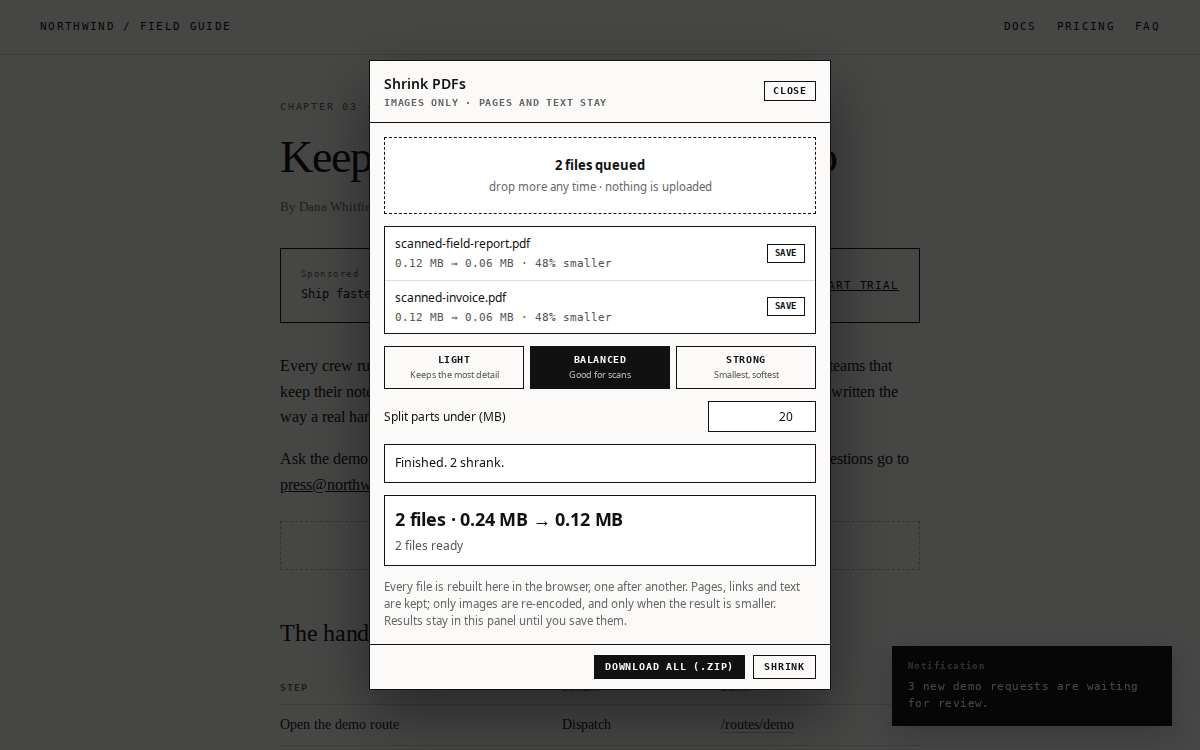
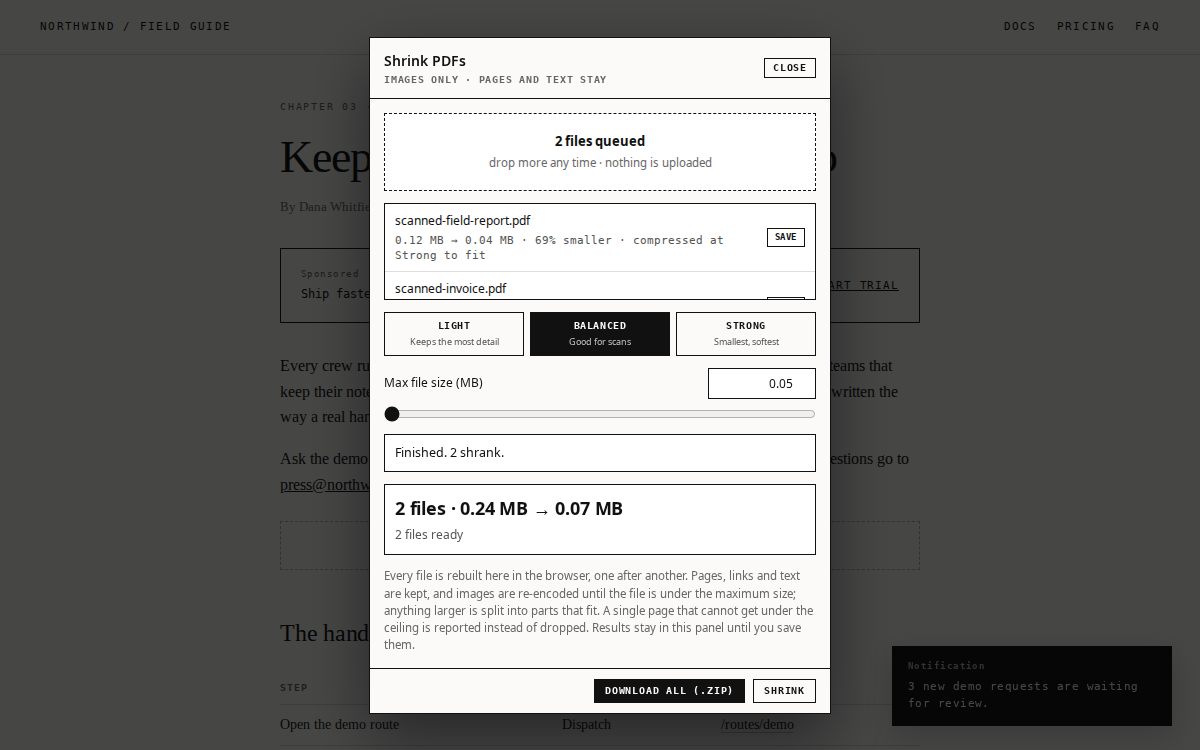
Make the size ceiling a maximum and compress until parts fit
The splitting field is now a max-file-size control with a slider and a number
input, defaulting to 20 MB, and a part that does not fit is rebuilt at the next
stronger preset before anything is reported as impossible. The row names the
preset that was needed, so a file that only fits at Strong says so.

🤖 Generated with Codebuff

Changed region(s): [[0.3083, 0.0307, 0.7092, 0.9507], [0.6475, 0.276, 0.6783, 0.368], [0.5242, 0.3067, 0.5858, 0.3373]]

diff --git a/bookmarklets/files/pdf-shrink.js b/bookmarklets/files/pdf-shrink.js
@@ -574,9 +574,27 @@
     return { ...outcome, bytes: better ? out : bytes, after: better ? out.length : bytes.length, unchanged: !better };
   }
 
+  const LADDER = ["light", "balanced", "strong"];
+
+  // From the chosen strength upwards. A ceiling is a promise, so a part that
+  // does not fit is compressed harder before it is called impossible.
+  function ladderFrom(name) {
+    const index = LADDER.indexOf(name);
+    return LADDER.slice(index < 0 ? 1 : index);
+  }
+
   async function splitPdf(bytes, targetBytes, presetName) {
-    const outcome = await optimizePdf(bytes, presetName);
-    return { ...outcome, parts: splitParts(outcome.pdf, targetBytes) };
+    const ladder = ladderFrom(presetName);
+    let outcome = null;
+    let parts = [];
+    let used = ladder[0];
+    for (const name of ladder) {
+      outcome = await optimizePdf(bytes, name);
+      parts = splitParts(outcome.pdf, targetBytes);
+      used = name;
+      if (parts.every((part) => part.bytes.length <= targetBytes)) break;
+    }
+    return { ...outcome, parts, preset: used, escalated: used !== ladder[0] };
   }
 
   /* Packing the parts ------------------------------------------------------ */
@@ -694,6 +712,8 @@
     .row span { font-size: 12px; }
     .row input { width: 92px; padding: 6px 7px; border: 1px solid #111; background: #fff; color: #111;
       font: 12px system-ui, sans-serif; text-align: right; }
+    .max { display: flex; flex-direction: column; gap: 7px; }
+    .range { width: 100%; margin: 0; accent-color: #111; }
     .status { margin: 0; padding: 9px 10px; border: 1px solid #111; background: #fff; font-size: 12.5px;
       overflow-wrap: anywhere; }
     .status.error { border-style: dashed; }
@@ -796,17 +816,25 @@
       presets.append(button);
     }
 
-    const splitRow = make("label", { class: "row" });
-    const splitInput = make("input", { type: "number", min: "0.2", step: "0.5", placeholder: "off", inputmode: "decimal", value: "20" });
-    splitRow.append(make("span", {}, "Split parts under (MB)"), splitInput);
+    const maxRow = make("label", { class: "row" });
+    const maxInput = make("input", { type: "number", min: "0.5", max: "500", step: "0.5", inputmode: "decimal", value: "20", "data-max": "" });
+    maxRow.append(make("span", {}, "Max file size (MB)"), maxInput);
+    const maxRange = make("input", { class: "range", type: "range", min: "0.05", max: "60", step: "0.05", value: "20", "aria-label": "Maximum file size in megabytes", "data-max-range": "" });
+    const maxBlock = make("div", { class: "max" });
+    maxBlock.append(maxRow, maxRange);
+    maxRange.addEventListener("input", () => { maxInput.value = maxRange.value; });
+    maxInput.addEventListener("input", () => {
+      const value = Number.parseFloat(maxInput.value);
+      if (Number.isFinite(value) && value > 0) maxRange.value = String(Math.min(60, Math.max(0.05, value)));
+    });
 
     const status = make("p", { class: "status" }, "Ready. Pick one or more PDFs, then press Shrink.");
     const result = make("div", { class: "result" });
     result.hidden = true;
-    const hint = make("p", { class: "hint" }, "Every file is rebuilt here in the browser, one after another. Pages, links and text are kept; only images are re-encoded, and only when the result is smaller. Results stay in this panel until you save them.");
+    const hint = make("p", { class: "hint" }, "Every file is rebuilt here in the browser, one after another. Pages, links and text are kept, and images are re-encoded until the file is under the maximum size; anything larger is split into parts that fit. A single page that cannot get under the ceiling is reported instead of dropped. Results stay in this panel until you save them.");
 
     const queue = make("ul", { class: "queue", "aria-label": "Files to shrink", "data-queue": "" });
-    body.append(drop, queue, presets, splitRow, status, result, hint);
+    body.append(drop, queue, presets, maxBlock, status, result, hint);
 
     const foot = make("footer", { class: "foot" });
     const download = make("button", { class: "primary", type: "button", "data-download": "" }, "Download");
@@ -948,7 +976,7 @@
         const bytes = new Uint8Array(await item.file.arrayBuffer());
         setStatus(`Recompressing ${name}…`);
         await new Promise((resolve) => setTimeout(resolve, 30));
-        const targetMb = Number.parseFloat(splitInput.value);
+        const targetMb = Number.parseFloat(maxInput.value);
         const target = Number.isFinite(targetMb) && targetMb > 0 ? targetMb * 1024 * 1024 : 0;
         const outcome = target ? await splitPdf(bytes, target, state.preset) : await shrinkPdf(bytes, state.preset);
         const parts = outcome.parts || null;
@@ -962,13 +990,15 @@
         }
 
         const base = baseName(name);
+        const harder = outcome.escalated ? ` · compressed at ${presetFor(outcome.preset).label} to fit` : "";
         if (parts && parts.length > 1) {
           item.result = parts.map((part, index) => ({ name: `${base}-part${index + 1}.pdf`, bytes: part.bytes }));
-          item.meta.textContent = `${parts.length} parts · ${mb(total)}`;
-          if (parts.some((part) => part.tooBig)) item.meta.textContent += " · a page is still over the limit";
+          item.meta.textContent = `${parts.length} parts · ${mb(total)}${harder}`;
+          if (parts.some((part) => part.tooBig)) item.meta.textContent += ` · a single page will not fit under ${mb(target)}`;
         } else {
           item.result = [{ name: `${base}-small.pdf`, bytes: parts ? parts[0].bytes : outcome.bytes }];
-          item.meta.textContent = `${mb(outcome.before)} → ${mb(total)} · ${Math.round((saved / outcome.before) * 100)}% smaller`;
+          item.meta.textContent = `${mb(outcome.before)} → ${mb(total)} · ${Math.round((saved / outcome.before) * 100)}% smaller${harder}`;
+          if (parts && parts[0] && parts[0].tooBig) item.meta.textContent += ` · still over ${mb(target)}`;
         }
         item.status = "done";
         item.save.hidden = false;
@@ -1024,7 +1054,7 @@
   if (globalThis.__BL_TEST__) {
     globalThis.__BL_TEST__.pdfShrink = {
       isPdf, scanObjects, serializePdf, imageKind, replaceImageDict, presetFor, countPages, dictEnd,
-      pageTree, subsetFor, splitParts, crc32, zipStore, shrinkPdf, splitPdf, readPdf, uniqueName,
+      pageTree, subsetFor, splitParts, crc32, zipStore, shrinkPdf, splitPdf, readPdf, uniqueName, ladderFrom,
     };
   } else if (document?.body) {
     open();

diff --git a/AGENTS.md b/AGENTS.md
@@ -98,7 +98,7 @@ Metadata fields, all required:
 - **Stars are local.** A star is a personal preference in `localStorage` (`bl:stars`), not a shared rating. Starred tools sort to the top of the grid; there is no GitHub reaction, no count file, no account and no server. A star must not change the export picks or the featured tool.
 - **Browser tools own their state locally.** Environment origins live in `bl:envs`, the harvested form in `bl:form`, the webhook endpoint in `bl:webhook`, the chosen theme in `bl:theme` and stars in `bl:stars`. Nothing is uploaded. The PII masker must keep its **Restore page** action honest: store the original text and inline filters before changing them, and never apply a new pass on top of an existing one. The webhook tool must try the direct POST and fall back to the clipboard when CSP or CORS blocks it. The form pair skips password and file fields on both sides, and the stamper must dispatch native `input` and `change` events rather than assigning `.value` alone.
 - **Media downloads save what the page already loads.** The four tools in `bookmarklets/files/media-*.js` are generated from `bookmarklets/src/parts/media-grab.js`; never edit a generated file. Images come from `img`/`picture` (including `srcset` and lazy attributes) and social preview tags, video and audio from the elements and their `source` fallbacks, and linked files from anchors with `download` or a file extension. Every run scans the live document, so a player that swaps sources is read as it is at that moment. **Save all to folder** uses `showDirectoryPicker` and probes existing names so it numbers rather than overwrites; **Download each** is the fallback where the picker is missing. A cross-origin file without CORS headers cannot be read: mark it blocked and give it an **Open** link instead of pretending it saved. `.m3u8`/`.mpd` playlists and files over 600 MB are listed but skipped, and nothing is uploaded, decrypted or re-encoded. The panel must not change the page outside its own host.
-- **Shrink PDF rebuilds the document instead of harvesting its images.** `bookmarklets/files/pdf-shrink.js` scans every `N G obj`, keeps the last definition of each number (which is what drops the leftovers of an incremental save), lifts PDF 1.5 object streams to the top level so the output needs no cross-reference stream, replaces only eligible image streams, and writes a fresh xref. Never rebuild a PDF out of just the image objects: that throws away text, vectors, page order and annotations, which is what the sketch this replaced did. Skip masks, stencils, CCITT/JBIG2, CMYK and predictors rather than guess, keep the output only when it is smaller, and refuse encrypted files. Splitting walks the page tree (never object order), rewrites only `/Kids` and `/Count` on the Pages node so inherited keys survive, and packs parts into one stored ZIP because browsers block the second download a page starts. Every written stream must carry a `/Length` that matches the bytes actually written; producers get that wrong and a reader then truncates content. A batch is rebuilt one file at a time, each row reporting its own result, and its outputs travel in one ZIP with a per-row Save for the same download reason; same-named files must be disambiguated before they enter an archive. Keep `@testing true` while any fidelity question is open — Sizes are reported in MB (two decimals below 10 MB) because that is how upload limits are quoted, and the split ceiling defaults to 20 MB. a smaller file that renders differently is worse than a big one.
+- **Shrink PDF rebuilds the document instead of harvesting its images.** `bookmarklets/files/pdf-shrink.js` scans every `N G obj`, keeps the last definition of each number (which is what drops the leftovers of an incremental save), lifts PDF 1.5 object streams to the top level so the output needs no cross-reference stream, replaces only eligible image streams, and writes a fresh xref. Never rebuild a PDF out of just the image objects: that throws away text, vectors, page order and annotations, which is what the sketch this replaced did. Skip masks, stencils, CCITT/JBIG2, CMYK and predictors rather than guess, keep the output only when it is smaller, and refuse encrypted files. Splitting walks the page tree (never object order), rewrites only `/Kids` and `/Count` on the Pages node so inherited keys survive, and packs parts into one stored ZIP because browsers block the second download a page starts. The ceiling is a maximum file size, so a part that does not fit is retried at the next stronger preset (light to balanced to strong) before it may be reported as impossible. Every written stream must carry a `/Length` that matches the bytes actually written; producers get that wrong and a reader then truncates content. A batch is rebuilt one file at a time, each row reporting its own result, and its outputs travel in one ZIP with a per-row Save for the same download reason; same-named files must be disambiguated before they enter an archive. Keep `@testing true` while any fidelity question is open — Sizes are reported in MB (two decimals below 10 MB) because that is how upload limits are quoted, and the split ceiling defaults to 20 MB. a smaller file that renders differently is worse than a big one.
 - **Chat export ships its own converter.** `bookmarklets/files/chat-to-markdown.js` must never load Turndown or anything else from a CDN: ChatGPT, Claude and Gemini run under CSP rules that block it, and the library's own rule is that a self-contained tool contains every line it runs. Message-level extraction (platform selectors, then `[data-message-author-role]` and friends) is what keeps `## You` / `## Assistant` in the file; the container and picker paths are fallbacks, not the main road. Never assign an HTML string to `innerHTML` anywhere in it: Google AI Studio enforces Trusted Types and blocks it, and `tests/chat-to-markdown.test.mjs` fails the build if an HTML sink returns. The file is a download, never the clipboard. `@testing true` (a status, not a `@traits` entry) puts an **In testing** badge on the card and is validated by build and verify; drop it once the tool has been run against the real service.
 - **Send PDF to DocuSign is BYOK, and the bytes travel, not a URL.** `bookmarklets/files/send-to-docusign.js` uploads the PDF as `documents[0].documentBase64`; a `uri` would ask DocuSign to fetch a link that is usually a `blob:` or behind a session, so it cannot work. The handoff is `POST /v2.1/accounts/{id}/envelopes/{envelopeId}/views/sender` — that endpoint returns the real sender URL and only accepts envelopes in `created` state. Never bake credentials into the file: settings live in `localStorage` under `bl:docusign`, and the token is saved only when its box is ticked, per origin. `envelopeBody` omits `recipients` when the signer email is blank because DocuSign rejects an empty address. Pure helpers are exported through `__BL_TEST__` for `tests/send-to-docusign.test.mjs`, and `scripts/fixtures/sample.pdf` exists so a capture can show a found PDF.
 - **Preview downloads stays in the page.** `bookmarklets/view/preview-downloads.js` listens for clicks in the capture phase and takes over only links whose extension it can show (image, video, audio, PDF, text, Office); a ZIP or an unknown extension keeps its normal download. It `fetch`es the file once — that read is what enables the text preview, the size and the save — and falls back to the link URL, with a note, when CORS refuses. Mounting tries a shadow-root overlay first, then Document Picture-in-Picture, then a pop-up; Esc, the backdrop and Close all revoke the object URL. The pure helpers (`extensionOf`, `kindOf`, `isFileLink`, `nameFor`, `sizeLabel`) are exported through `__BL_TEST__` for `tests/preview-downloads.test.mjs`, so keep them free of DOM access.

diff --git a/README.md b/README.md
@@ -137,11 +137,11 @@ The images are the weight in a scan. Each JPEG is decoded, drawn at a smaller si
 
 What it deliberately leaves alone: transparency masks and soft masks, `ImageMask` stencils, CCITT and JBIG2 fax images, CMYK and indexed colour, and predictors. Shrinking one half of a mask pair would leave the other misaligned, so those are skipped rather than guessed at. Encrypted PDFs are refused, because their streams cannot be read without the key.
 
-Set **Split parts under (MB)** (it starts at 20) and the same pass packs the pages, in page-tree order, into parts under that ceiling. Each part is rebuilt from only the objects its pages can reach, so a part does not carry the images of the pages it left out, and all parts arrive in one ZIP — a browser blocks the second download a page starts, so separate files would silently stop after the first. A single page that is still too heavy is reported as over the limit rather than quietly dropped.
+**Max file size (MB)** is set with a slider or by typing a number and defaults to 20. The same pass packs the pages, in page-tree order, into parts under that ceiling, and a part that still does not fit is recompressed at the next stronger setting before it is reported. Each part is rebuilt from only the objects its pages can reach, so a part does not carry the images of the pages it left out, and all parts arrive in one ZIP — a browser blocks the second download a page starts, so separate files would silently stop after the first. A single page that is still too heavy is reported as over the limit rather than quietly dropped.
 
 It has now been through 30 files: 15 public PDFs and 15 generated 2400×3200 scans. The scans went 0.18 MB → 0.06 MB, 1.11 MB → 0.15 MB (87% smaller), 5.44 MB → 1.24 MB and 6.56 MB → 1.39 MB (79%). `pdfinfo` page counts match, image object counts are unchanged, and page content streams hash identical before and after. Splitting a 3-page 6.56 MB scan at a 0.3 MB ceiling produced a 0.17 MB two-page part plus a 1.24 MB single page that the panel flags as too heavy to fit.
 
-A `pdftotext` mismatch on two of those vector PDFs turned out to be a real bug, not a reader quirk: a stream whose `/Length` is an indirect reference was being trimmed at its final line break, which shortened and corrupted embedded fonts. Lengths are resolved from the length object now, and the rebuilt pages render to byte-identical PNGs with matching text. The card keeps its **In testing** badge because the corpus is still small, and because a page that cannot fit a split target is reported rather than retried at a stronger preset. A text-only PDF has nothing to recompress, so the panel says there is no gain rather than handing back a file that grew.
+A `pdftotext` mismatch on two of those vector PDFs turned out to be a real bug, not a reader quirk: a stream whose `/Length` is an indirect reference was being trimmed at its final line break, which shortened and corrupted embedded fonts. Lengths are resolved from the length object now, and the rebuilt pages render to byte-identical PNGs with matching text. The card keeps its **In testing** badge because the corpus is still small, and because a single page that cannot be compressed under the ceiling is reported instead of quietly dropped. A text-only PDF has nothing to recompress, so the panel says there is no gain rather than handing back a file that grew.
 
 ## Export a chat to Markdown
 

diff --git a/HISTORY.md b/HISTORY.md
@@ -2,6 +2,20 @@
 
 What has been done, in order. Newest entries first.
 
+## 2026-11-03 — A maximum size, not just a splitting point
+
+**Changed**
+
+- The splitting field became **Max file size (MB)**: a range slider paired with a number input, both starting at 20, kept in sync in either direction. The number accepts 0.5–500 MB for scans that need more room; the slider covers the 1–60 MB range people actually hit.
+- The ceiling is now a promise rather than a suggestion. If any part still exceeds it, the whole document is recompressed at the next stronger preset and repacked, up to Strong, and only then does a page get reported as impossible. The row says which preset it had to use (`compressed at Strong to fit`).
+- A single-page file that goes over the ceiling is reported as still over it, because there is nothing to split.
+- The hint now says what the tool will do: compress until under the maximum, split what is left, and report a page that cannot fit.
+
+**Verified**
+
+- `npm test`: 111 pass, including the escalation ladder (`light` → `balanced` → `strong`, and no escalation past `strong`).
+- The capture checks the slider defaults to 20, types 0.05 MB into the number field, confirms the slider follows, then runs two PDFs through the picker and requires both rows to be saveable, both to report `compressed at Strong to fit`, and one archive to be offered.
+
 ## 2026-11-03 — Sizes read in MB, and splitting starts at 20 MB
 
 **Changed**

diff --git a/TODO.md b/TODO.md
@@ -65,7 +65,8 @@
 - [x] The `pdftotext` mismatch was a real bug: a stream with an indirect `/Length` was trimmed at its last line break, corrupting embedded fonts (poppler said "Bad dynamic code table"). Lengths are resolved from the length object now; rendered pages hash identically and text matches exactly.
 - [ ] Widen the corpus past 30 files, especially JBIG2/CCITT scans, PDFs over 40 MB, and Word/Chrome exports with object streams.
 - [ ] Text-only PDFs cannot get smaller by recompression. The rebuild can still shrink them by dropping superseded objects, but that is the path under investigation above.
-- [ ] A page that stays over the split target is reported, not retried at a stronger preset for that page alone.
+- [x] **Max file size (MB)** slider plus number input, default 20. Parts that do not fit are rebuilt at the next stronger preset (up to Strong) before anything is reported as impossible.
+- [ ] A page that even Strong leaves over the ceiling could try a lower JPEG quality for that page alone instead of stopping at the preset.
 
 ## Export chat to Markdown (2026-11-03)
 
